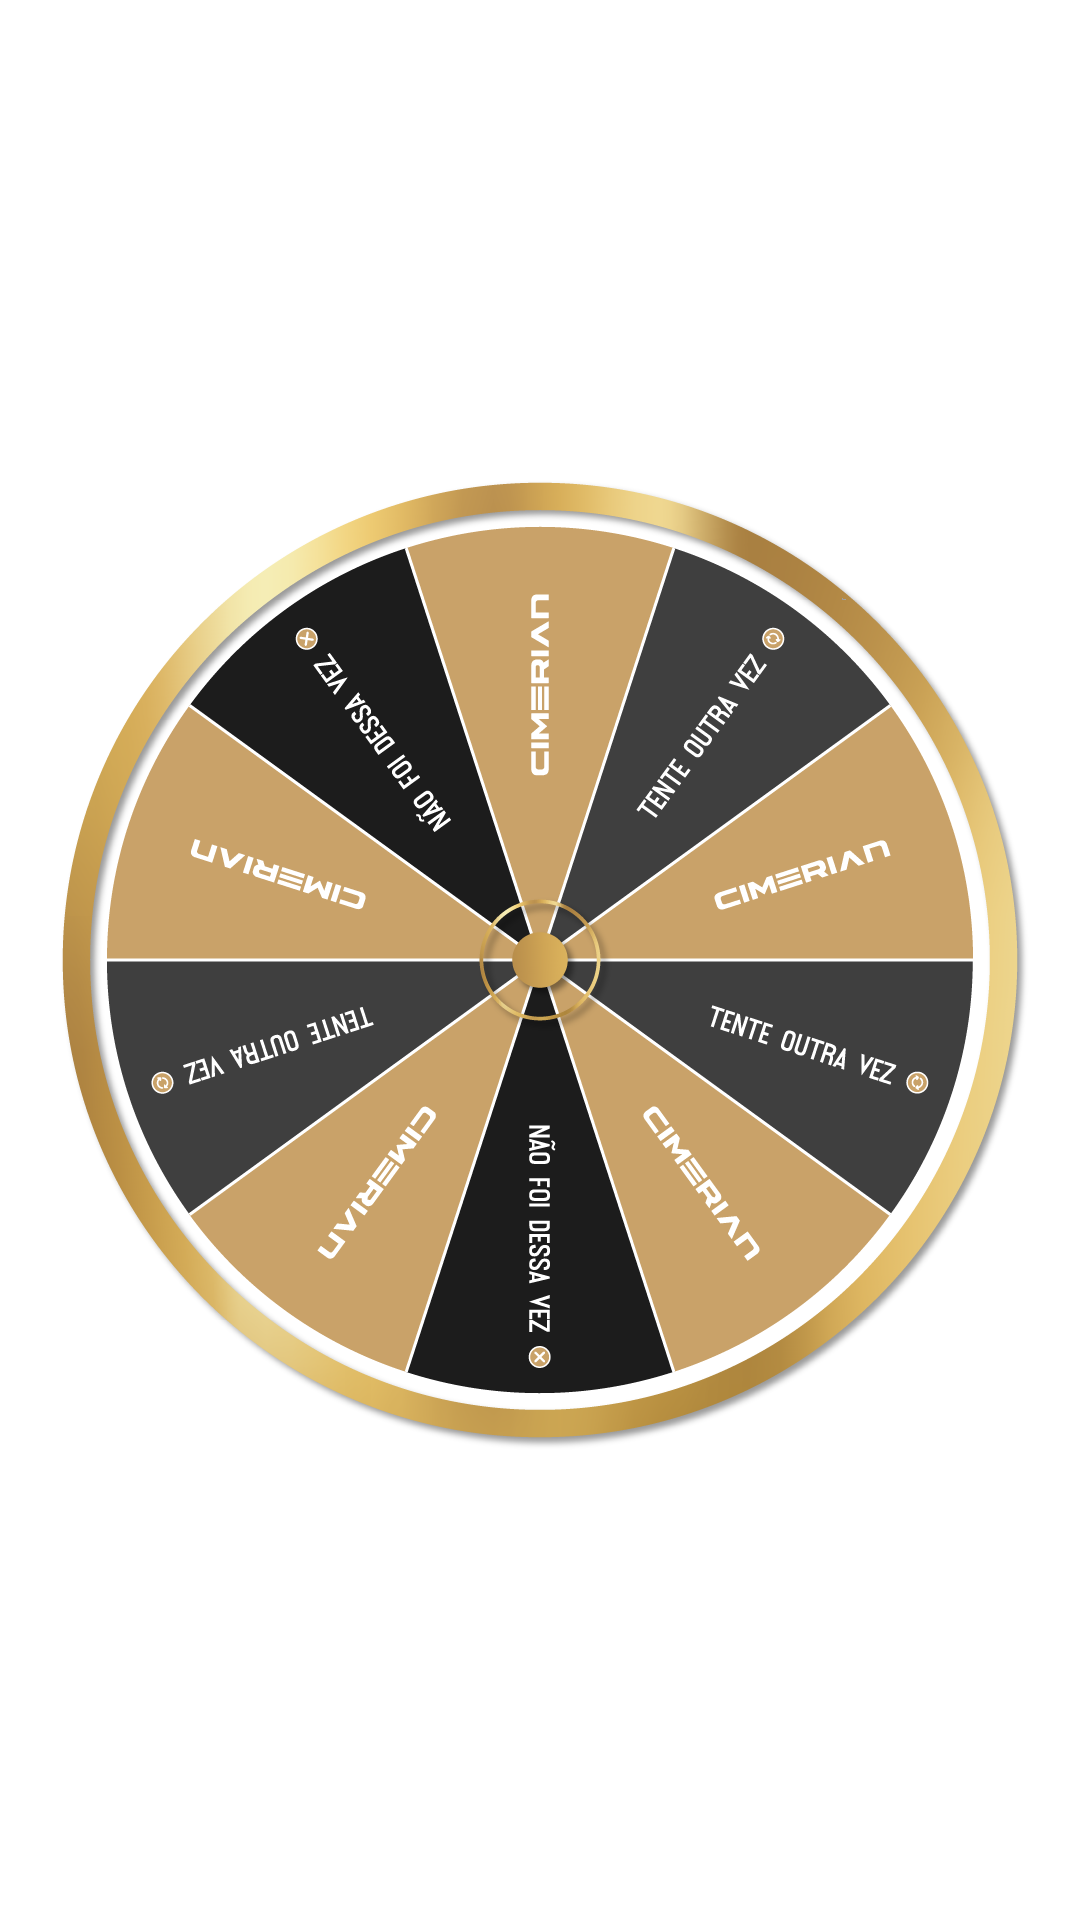
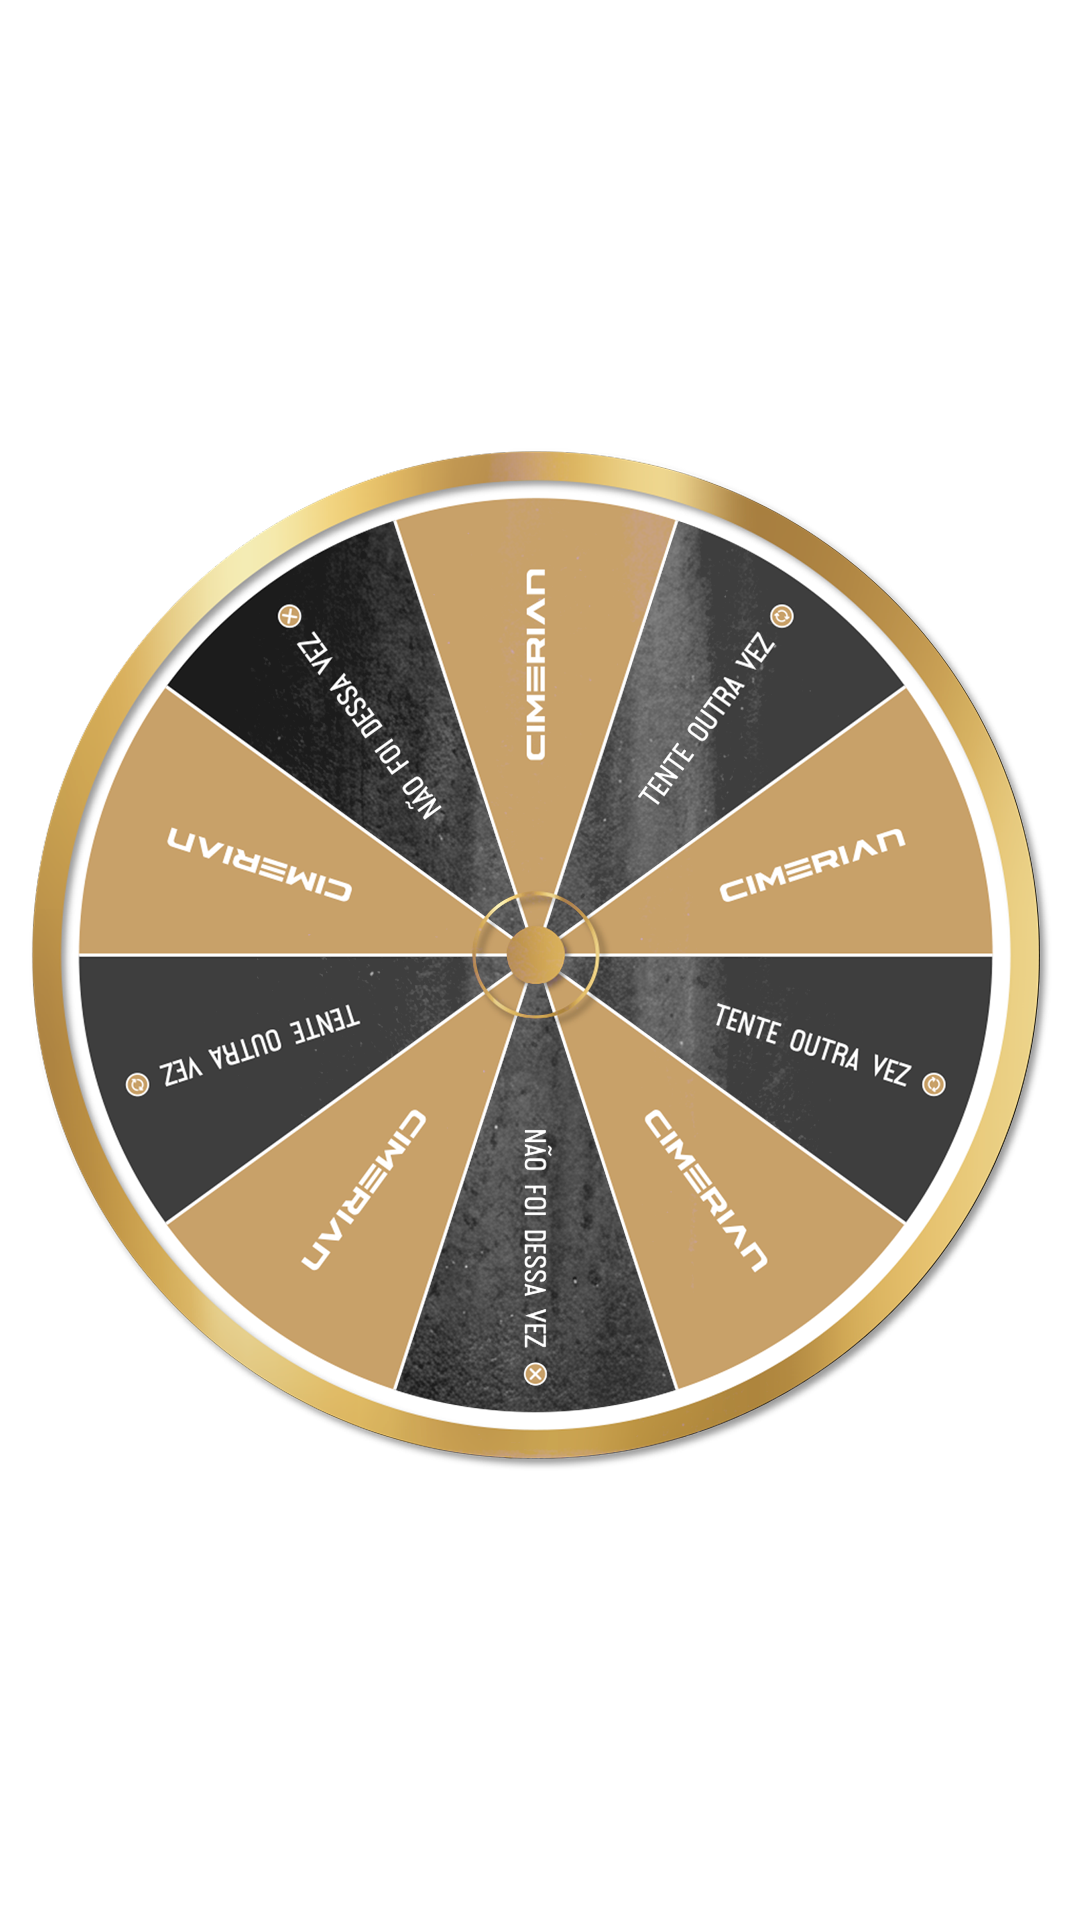
feat: novo design da roleta

Changed region(s): [[0.0306, 0.2188, 0.9778, 0.7812], [0.7333, 0.375, 0.7944, 0.4062], [0.3056, 0.625, 0.3361, 0.6562]]

diff --git a/front-end/src/pages/Roleta.tsx b/front-end/src/pages/Roleta.tsx
@@ -2,7 +2,7 @@ import { useState, useEffect, useRef } from "react";
 import { ArrowLeft } from "lucide-react";
 import { NavLink, useNavigate } from "react-router-dom";
 
-import FundoRoleta from "../assets/tela-roleta-totem-fitness.jpeg";
+import FundoRoleta from "../assets/tela-roleta-totem-fitness.png";
 import RoletaFoto from "../assets/roleta-totem-fitness.png";
 
 // Diferença entre dois ângulos, sempre no intervalo (-180, 180].
@@ -211,7 +211,7 @@ export default function Roleta() {
                 className="
                     absolute
                     left-1/2
-                    top-[12%]
+                    top-[9%]
                     z-20
                     -translate-x-1/2
                     cursor-grab
@@ -256,7 +256,7 @@ export default function Roleta() {
                     pointer-events-none
                     absolute
                     left-1/2
-                    top-[49%]
+                    top-[44%]
                     z-[50]
                     -translate-x-1/2
                 "
